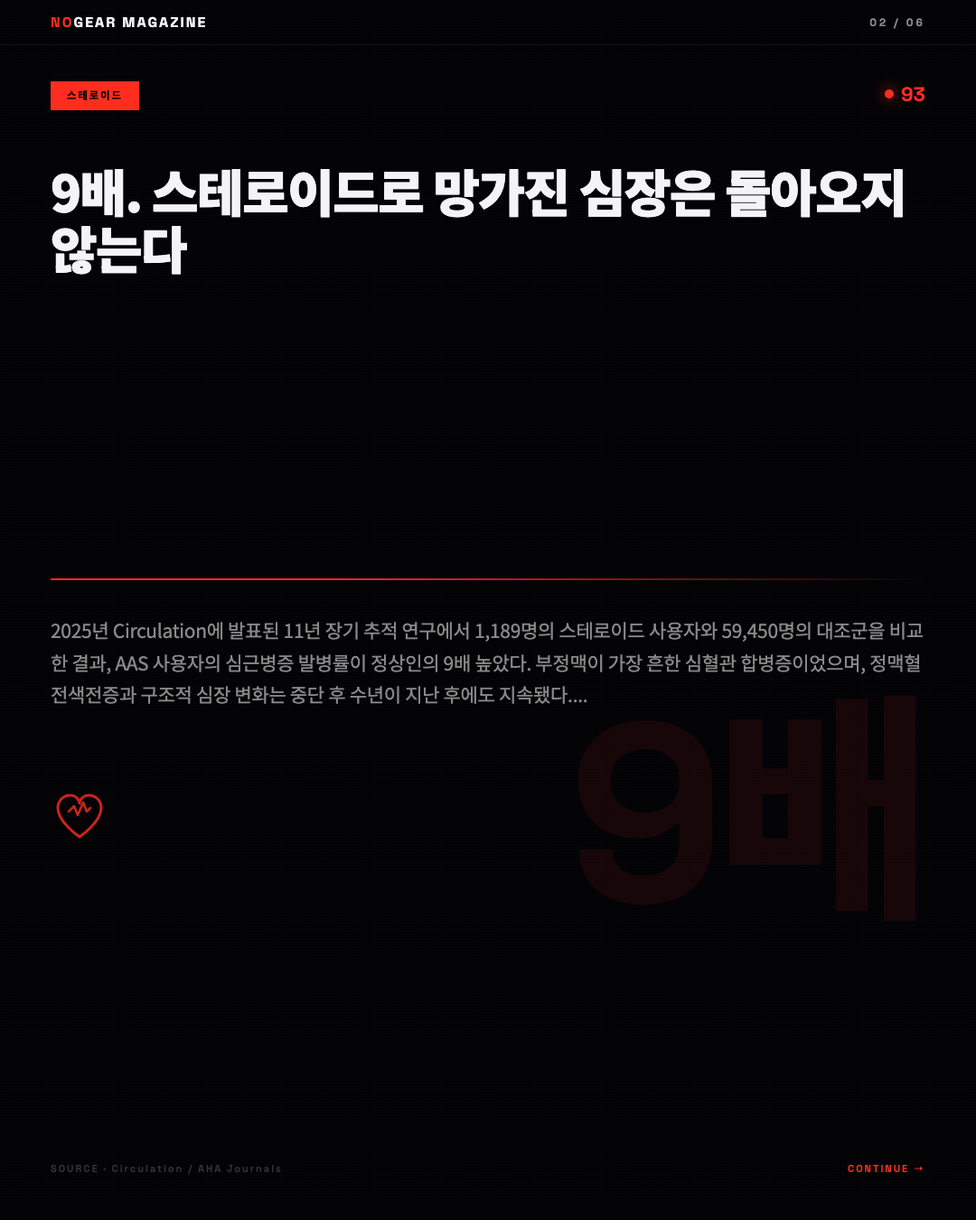
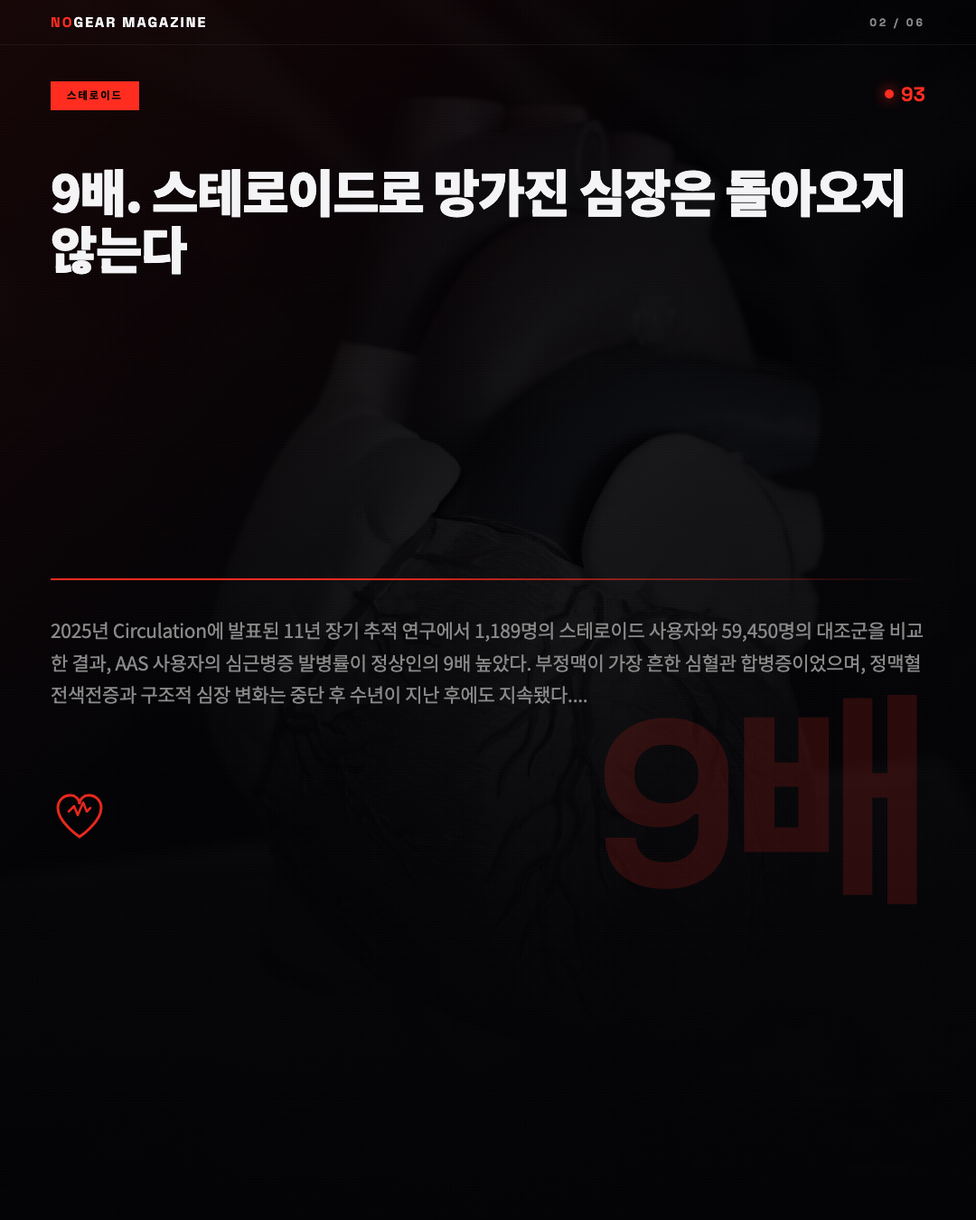
feat: 주제별 배경 사진 (심장/약/짐/불/실험실) + 다크 오버레이 + 그레이스케일 필터 + 비네팅

diff --git a/cardnews/20260418_viral/00_cover.html b/cardnews/20260418_viral/00_cover.html
@@ -4,24 +4,27 @@
 @import url('https://fonts.googleapis.com/css2?family=Noto+Sans+KR:wght@400;700;900&family=Space+Grotesk:wght@700;900&display=swap');
 *{margin:0;padding:0;box-sizing:border-box;}
 body{width:1080px;height:1350px;background:#030306;font-family:'Noto Sans KR',sans-serif;color:#F4F4F6;overflow:hidden;position:relative;}
-.grain{position:absolute;inset:0;background-image:radial-gradient(rgba(255,255,255,.02) 1px,transparent 1px);background-size:3px 3px;pointer-events:none;}
-.noise-lines{position:absolute;top:0;left:0;right:0;height:100%;background:linear-gradient(90deg,transparent 98%,rgba(255,45,32,.04) 100%);background-size:60px 100%;pointer-events:none;}
-.top-strip{position:absolute;top:0;left:0;right:0;height:60px;background:#FF2D20;display:flex;align-items:center;justify-content:space-between;padding:0 56px;}
+.cover-bg{position:absolute;inset:0;background-image:url('../assets/heart.jpg');background-size:cover;background-position:center;filter:grayscale(85%) contrast(1.3) brightness(.4);opacity:.5;z-index:0;}
+.cover-overlay{position:absolute;inset:0;background:linear-gradient(180deg,rgba(3,3,6,.4) 0%,rgba(3,3,6,.75) 50%,rgba(3,3,6,.98) 100%);z-index:1;}
+.cover-vignette{position:absolute;inset:0;background:radial-gradient(circle at 50% 40%, transparent 20%, rgba(3,3,6,.6) 80%);z-index:2;}
+.grain{position:absolute;inset:0;background-image:radial-gradient(rgba(255,255,255,.02) 1px,transparent 1px);background-size:3px 3px;pointer-events:none;z-index:3;}
+.noise-lines{position:absolute;top:0;left:0;right:0;height:100%;background:linear-gradient(90deg,transparent 98%,rgba(255,45,32,.04) 100%);background-size:60px 100%;pointer-events:none;z-index:3;}
+.top-strip{position:absolute;top:0;left:0;right:0;height:60px;background:#FF2D20;display:flex;align-items:center;justify-content:space-between;padding:0 56px;z-index:10;}
 .top-strip .ticker{font-family:'Space Grotesk';font-size:13px;font-weight:900;letter-spacing:4px;color:#000;}
 .top-strip .date{font-family:'Space Grotesk';font-size:13px;font-weight:700;letter-spacing:2px;color:#000;}
-.icon-wrap{position:absolute;top:100px;left:56px;width:80px;height:80px;}
-.icon-label{position:absolute;top:110px;left:156px;font-family:'Space Grotesk';font-size:12px;font-weight:900;letter-spacing:4px;color:#FF2D20;}
-.icon-subtext{position:absolute;top:140px;left:156px;font-size:16px;color:#888;font-weight:400;}
-.hero-num{position:absolute;top:220px;left:0;right:0;text-align:center;font-family:'Space Grotesk';font-weight:900;font-size:280px;line-height:1;letter-spacing:-10px;color:#FF2D20;text-shadow:0 0 80px rgba(255,45,32,.4);}
-.hero-label{position:absolute;top:520px;left:0;right:0;text-align:center;font-family:'Space Grotesk';font-size:14px;font-weight:900;letter-spacing:6px;color:#F4F4F6;}
-.pulse-ring{position:absolute;top:240px;left:50%;width:500px;height:500px;border:2px solid rgba(255,45,32,.1);border-radius:50%;transform:translateX(-50%);pointer-events:none;}
-.pulse-ring-2{position:absolute;top:290px;left:50%;width:400px;height:400px;border:1px solid rgba(255,45,32,.05);border-radius:50%;transform:translateX(-50%);pointer-events:none;}
-.main-hook{position:absolute;top:620px;left:56px;right:56px;font-size:62px;font-weight:900;line-height:1.1;letter-spacing:-2px;color:#F4F4F6;}
+.icon-wrap{position:absolute;top:100px;left:56px;width:80px;height:80px;z-index:10;}
+.icon-label{position:absolute;top:110px;left:156px;font-family:'Space Grotesk';font-size:12px;font-weight:900;letter-spacing:4px;color:#FF2D20;z-index:10;}
+.icon-subtext{position:absolute;top:140px;left:156px;font-size:16px;color:#888;font-weight:400;z-index:10;}
+.hero-num{position:absolute;top:220px;left:0;right:0;text-align:center;font-family:'Space Grotesk';font-weight:900;font-size:280px;line-height:1;letter-spacing:-10px;color:#FF2D20;text-shadow:0 0 100px rgba(255,45,32,.6);z-index:10;}
+.hero-label{position:absolute;top:520px;left:0;right:0;text-align:center;font-family:'Space Grotesk';font-size:14px;font-weight:900;letter-spacing:6px;color:#F4F4F6;z-index:10;}
+.pulse-ring{position:absolute;top:240px;left:50%;width:500px;height:500px;border:2px solid rgba(255,45,32,.12);border-radius:50%;transform:translateX(-50%);pointer-events:none;z-index:5;}
+.pulse-ring-2{position:absolute;top:290px;left:50%;width:400px;height:400px;border:1px solid rgba(255,45,32,.07);border-radius:50%;transform:translateX(-50%);pointer-events:none;z-index:5;}
+.main-hook{position:absolute;top:620px;left:56px;right:56px;font-size:62px;font-weight:900;line-height:1.1;letter-spacing:-2px;color:#F4F4F6;z-index:10;text-shadow:0 2px 20px rgba(0,0,0,.8);}
 .main-hook .accent{color:#FF2D20;}
-.meta-line{position:absolute;bottom:120px;left:56px;right:56px;display:flex;align-items:center;justify-content:space-between;border-top:1px solid rgba(255,255,255,.1);padding-top:16px;}
+.meta-line{position:absolute;bottom:120px;left:56px;right:56px;display:flex;align-items:center;justify-content:space-between;border-top:1px solid rgba(255,255,255,.1);padding-top:16px;z-index:10;}
 .meta-left{font-size:13px;color:#888;letter-spacing:1px;font-weight:700;}
 .meta-right{font-family:'Space Grotesk';font-size:11px;color:#333;letter-spacing:3px;}
-.swipe-cta{position:absolute;bottom:40px;left:56px;right:56px;display:flex;align-items:center;justify-content:space-between;}
+.swipe-cta{position:absolute;bottom:40px;left:56px;right:56px;display:flex;align-items:center;justify-content:space-between;z-index:10;}
 .swipe-cta .logo{font-family:'Space Grotesk';font-size:18px;font-weight:900;letter-spacing:2px;}
 .swipe-cta .logo .n{color:#FF2D20;}
 .swipe-cta .logo .mag{font-size:9px;color:#333;letter-spacing:4px;margin-left:4px;}
@@ -30,6 +33,9 @@ body{width:1080px;height:1350px;background:#030306;font-family:'Noto Sans KR',sa
 .vertical-label{position:absolute;left:20px;top:50%;transform:rotate(-90deg) translateY(-50%);transform-origin:left center;font-family:'Space Grotesk';font-size:10px;font-weight:800;color:#333;letter-spacing:5px;}
 </style></head>
 <body>
+  <div class="cover-bg"></div>
+  <div class="cover-overlay"></div>
+  <div class="cover-vignette"></div>
   <div class="grain"></div>
   <div class="noise-lines"></div>
   <div class="top-strip">

diff --git a/cardnews/20260418_viral/01_problem.html b/cardnews/20260418_viral/01_problem.html
@@ -25,25 +25,46 @@ body{width:1080px;height:1350px;background:#030306;font-family:'Noto Sans KR',sa
 .corner-mark{position:absolute;bottom:50px;left:56px;width:24px;height:24px;border-left:2px solid #FF2D20;border-bottom:2px solid #FF2D20;}
 </style></head>
 <body>
-  <div class="grain"></div>
-  <div style="position:absolute;top:760px;right:56px;font-family:'Space Grotesk';font-size:280px;font-weight:900;color:#FF2D20;opacity:.08;line-height:1;letter-spacing:-10px;pointer-events:none;">9배</div>
-  <div style="position:absolute;top:870px;left:56px;width:64px;height:64px;opacity:.8;"><svg viewBox="0 0 64 64" style="width:100%;height:100%;">
+  
+    <div class="bg-photo" style="position:absolute;top:0;left:0;right:0;bottom:0;
+      background-image:url('../assets/heart.jpg');
+      background-size:cover;
+      background-position:center;
+      filter:grayscale(90%) contrast(1.2) brightness(.5);
+      opacity:.55;
+      z-index:0;"></div>
+    <div class="bg-overlay" style="position:absolute;top:0;left:0;right:0;bottom:0;
+      background:linear-gradient(180deg,
+        rgba(3,3,6,.3) 0%,
+        rgba(3,3,6,.65) 40%,
+        rgba(3,3,6,.92) 75%,
+        rgba(3,3,6,.98) 100%);
+      z-index:1;"></div>
+    <div class="bg-vignette" style="position:absolute;top:0;left:0;right:0;bottom:0;
+      background:radial-gradient(circle at 50% 50%, transparent 0%, rgba(3,3,6,.6) 100%);
+      z-index:2;"></div>
+    <div class="bg-red-tint" style="position:absolute;top:0;left:0;right:0;bottom:0;
+      background:linear-gradient(135deg, rgba(255,45,32,.08) 0%, transparent 40%);
+      z-index:3;"></div>
+  <div class="grain" style="z-index:4;"></div>
+  <div style="position:absolute;top:760px;right:56px;font-family:'Space Grotesk';font-size:260px;font-weight:900;color:#FF2D20;opacity:.15;line-height:1;letter-spacing:-10px;pointer-events:none;z-index:5;">9배</div>
+  <div style="position:absolute;top:870px;left:56px;width:64px;height:64px;opacity:.9;z-index:5;"><svg viewBox="0 0 64 64" style="width:100%;height:100%;">
 <path d="M32 56 C32 56 8 40 8 24 C8 16 14 10 22 10 C27 10 32 14 32 20 C32 14 37 10 42 10 C50 10 56 16 56 24 C56 40 32 56 32 56 Z" fill="none" stroke="#FF2D20" stroke-width="3"/>
 <path d="M20 28 L26 22 L30 32 L36 18 L40 28 L44 24" fill="none" stroke="#FF2D20" stroke-width="2.5" stroke-linecap="round" stroke-linejoin="round"/>
 </svg></div>
-  <div class="top-bar">
+  <div class="top-bar" style="z-index:10;">
     <div class="logo"><span class="n">NO</span>GEAR MAGAZINE</div>
     <div class="page">02 / 06</div>
   </div>
-  <div class="cat-chip">스테로이드</div>
-  <div class="score-corner"><div class="dot"></div><div class="num">93</div></div>
+  <div class="cat-chip" style="z-index:10;">스테로이드</div>
+  <div class="score-corner" style="z-index:10;"><div class="dot"></div><div class="num">93</div></div>
 
-  <div class="title-block">
+  <div class="title-block" style="z-index:10;">
     <div class="main">9배. 스테로이드로 망가진 심장은 돌아오지 않는다</div>
   </div>
 
-  <div class="divider"></div>
-  <div class="summary">2025년 Circulation에 발표된 11년 장기 추적 연구에서 1,189명의 스테로이드 사용자와 59,450명의 대조군을 비교한 결과, AAS 사용자의 심근병증 발병률이 정상인의 9배 높았다. 부정맥이 가장 흔한 심혈관 합병증이었으며, 정맥혈전색전증과 구조적 심장 변화는 중단 후 수년이 지난 후에도 지속됐다....</div>
+  <div class="divider" style="z-index:10;"></div>
+  <div class="summary" style="z-index:10;">2025년 Circulation에 발표된 11년 장기 추적 연구에서 1,189명의 스테로이드 사용자와 59,450명의 대조군을 비교한 결과, AAS 사용자의 심근병증 발병률이 정상인의 9배 높았다. 부정맥이 가장 흔한 심혈관 합병증이었으며, 정맥혈전색전증과 구조적 심장 변화는 중단 후 수년이 지난 후에도 지속됐다....</div>
 
   <div class="footer">
     <div class="src">SOURCE · Circulation / AHA Journals</div>

diff --git a/cardnews/20260418_viral/02_problem.html b/cardnews/20260418_viral/02_problem.html
@@ -25,25 +25,46 @@ body{width:1080px;height:1350px;background:#030306;font-family:'Noto Sans KR',sa
 .corner-mark{position:absolute;bottom:50px;left:56px;width:24px;height:24px;border-left:2px solid #FF2D20;border-bottom:2px solid #FF2D20;}
 </style></head>
 <body>
-  <div class="grain"></div>
-  <div style="position:absolute;top:760px;right:56px;font-family:'Space Grotesk';font-size:280px;font-weight:900;color:#FF2D20;opacity:.08;line-height:1;letter-spacing:-10px;pointer-events:none;">38%</div>
-  <div style="position:absolute;top:870px;left:56px;width:64px;height:64px;opacity:.8;"><svg viewBox="0 0 64 64" style="width:100%;height:100%;">
+  
+    <div class="bg-photo" style="position:absolute;top:0;left:0;right:0;bottom:0;
+      background-image:url('../assets/heart.jpg');
+      background-size:cover;
+      background-position:center;
+      filter:grayscale(90%) contrast(1.2) brightness(.5);
+      opacity:.55;
+      z-index:0;"></div>
+    <div class="bg-overlay" style="position:absolute;top:0;left:0;right:0;bottom:0;
+      background:linear-gradient(180deg,
+        rgba(3,3,6,.3) 0%,
+        rgba(3,3,6,.65) 40%,
+        rgba(3,3,6,.92) 75%,
+        rgba(3,3,6,.98) 100%);
+      z-index:1;"></div>
+    <div class="bg-vignette" style="position:absolute;top:0;left:0;right:0;bottom:0;
+      background:radial-gradient(circle at 50% 50%, transparent 0%, rgba(3,3,6,.6) 100%);
+      z-index:2;"></div>
+    <div class="bg-red-tint" style="position:absolute;top:0;left:0;right:0;bottom:0;
+      background:linear-gradient(135deg, rgba(255,45,32,.08) 0%, transparent 40%);
+      z-index:3;"></div>
+  <div class="grain" style="z-index:4;"></div>
+  <div style="position:absolute;top:760px;right:56px;font-family:'Space Grotesk';font-size:260px;font-weight:900;color:#FF2D20;opacity:.15;line-height:1;letter-spacing:-10px;pointer-events:none;z-index:5;">38%</div>
+  <div style="position:absolute;top:870px;left:56px;width:64px;height:64px;opacity:.9;z-index:5;"><svg viewBox="0 0 64 64" style="width:100%;height:100%;">
 <path d="M32 56 C32 56 8 40 8 24 C8 16 14 10 22 10 C27 10 32 14 32 20 C32 14 37 10 42 10 C50 10 56 16 56 24 C56 40 32 56 32 56 Z" fill="none" stroke="#FF2D20" stroke-width="3"/>
 <path d="M20 28 L26 22 L30 32 L36 18 L40 28 L44 24" fill="none" stroke="#FF2D20" stroke-width="2.5" stroke-linecap="round" stroke-linejoin="round"/>
 </svg></div>
-  <div class="top-bar">
+  <div class="top-bar" style="z-index:10;">
     <div class="logo"><span class="n">NO</span>GEAR MAGAZINE</div>
     <div class="page">03 / 06</div>
   </div>
-  <div class="cat-chip">스테로이드</div>
-  <div class="score-corner"><div class="dot"></div><div class="num">92</div></div>
+  <div class="cat-chip" style="z-index:10;">스테로이드</div>
+  <div class="score-corner" style="z-index:10;"><div class="dot"></div><div class="num">92</div></div>
 
-  <div class="title-block">
+  <div class="title-block" style="z-index:10;">
     <div class="main">프로 보디빌더, 급성심장사 위험 아마추어보다 5배 높다 — EHJ 2025</div>
   </div>
 
-  <div class="divider"></div>
-  <div class="summary">유럽 심장학회지(European Heart Journal)에 발표된 2025년 대규모 연구에서 남성 보디빌더 121명의 사망을 분석한 결과, 사망의 38%가 급성심장사(SCD)였으며 사망 평균 연령은 45세였다. 프로 선수는 아마추어 대비 급성심장사 위험이 5배 이상 높았고, 대회 출전 중 사망한 11명의 평균 연령은 불...</div>
+  <div class="divider" style="z-index:10;"></div>
+  <div class="summary" style="z-index:10;">유럽 심장학회지(European Heart Journal)에 발표된 2025년 대규모 연구에서 남성 보디빌더 121명의 사망을 분석한 결과, 사망의 38%가 급성심장사(SCD)였으며 사망 평균 연령은 45세였다. 프로 선수는 아마추어 대비 급성심장사 위험이 5배 이상 높았고, 대회 출전 중 사망한 11명의 평균 연령은 불...</div>
 
   <div class="footer">
     <div class="src">SOURCE · European Heart Journal / ESC</div>

diff --git a/cardnews/20260418_viral/03_problem.html b/cardnews/20260418_viral/03_problem.html
@@ -25,25 +25,46 @@ body{width:1080px;height:1350px;background:#030306;font-family:'Noto Sans KR',sa
 .corner-mark{position:absolute;bottom:50px;left:56px;width:24px;height:24px;border-left:2px solid #FF2D20;border-bottom:2px solid #FF2D20;}
 </style></head>
 <body>
-  <div class="grain"></div>
   
-  <div style="position:absolute;top:870px;left:56px;width:64px;height:64px;opacity:.8;"><svg viewBox="0 0 64 64" style="width:100%;height:100%;">
+    <div class="bg-photo" style="position:absolute;top:0;left:0;right:0;bottom:0;
+      background-image:url('../assets/heart.jpg');
+      background-size:cover;
+      background-position:center;
+      filter:grayscale(90%) contrast(1.2) brightness(.5);
+      opacity:.55;
+      z-index:0;"></div>
+    <div class="bg-overlay" style="position:absolute;top:0;left:0;right:0;bottom:0;
+      background:linear-gradient(180deg,
+        rgba(3,3,6,.3) 0%,
+        rgba(3,3,6,.65) 40%,
+        rgba(3,3,6,.92) 75%,
+        rgba(3,3,6,.98) 100%);
+      z-index:1;"></div>
+    <div class="bg-vignette" style="position:absolute;top:0;left:0;right:0;bottom:0;
+      background:radial-gradient(circle at 50% 50%, transparent 0%, rgba(3,3,6,.6) 100%);
+      z-index:2;"></div>
+    <div class="bg-red-tint" style="position:absolute;top:0;left:0;right:0;bottom:0;
+      background:linear-gradient(135deg, rgba(255,45,32,.08) 0%, transparent 40%);
+      z-index:3;"></div>
+  <div class="grain" style="z-index:4;"></div>
+  
+  <div style="position:absolute;top:870px;left:56px;width:64px;height:64px;opacity:.9;z-index:5;"><svg viewBox="0 0 64 64" style="width:100%;height:100%;">
 <path d="M32 56 C32 56 8 40 8 24 C8 16 14 10 22 10 C27 10 32 14 32 20 C32 14 37 10 42 10 C50 10 56 16 56 24 C56 40 32 56 32 56 Z" fill="none" stroke="#FF2D20" stroke-width="3"/>
 <path d="M20 28 L26 22 L30 32 L36 18 L40 28 L44 24" fill="none" stroke="#FF2D20" stroke-width="2.5" stroke-linecap="round" stroke-linejoin="round"/>
 </svg></div>
-  <div class="top-bar">
+  <div class="top-bar" style="z-index:10;">
     <div class="logo"><span class="n">NO</span>GEAR MAGAZINE</div>
     <div class="page">04 / 06</div>
   </div>
-  <div class="cat-chip">스테로이드</div>
-  <div class="score-corner"><div class="dot"></div><div class="num">91</div></div>
+  <div class="cat-chip" style="z-index:10;">스테로이드</div>
+  <div class="score-corner" style="z-index:10;"><div class="dot"></div><div class="num">91</div></div>
 
-  <div class="title-block">
+  <div class="title-block" style="z-index:10;">
     <div class="main">19살 브라질 보디빌더, 스테로이드 심장마비로 사망</div>
   </div>
 
-  <div class="divider"></div>
-  <div class="summary">19살의 브라질 유명 보디빌더가 스테로이드 관련 심장마비로 사망했다. 젊은 나이에도 스테로이드 남용이 심근병증과 급성 심근경색을 유발한다는 사실이 다시 한 번 입증됐다. 이 사례는 소셜 미디어에서 빠르게 확산되며 피트니스 업계의 약물 문화에 대한 경각심을 높이고 있다. 의사들은 AAS(동화스테로이드) 사용이 10대에서도 ...</div>
+  <div class="divider" style="z-index:10;"></div>
+  <div class="summary" style="z-index:10;">19살의 브라질 유명 보디빌더가 스테로이드 관련 심장마비로 사망했다. 젊은 나이에도 스테로이드 남용이 심근병증과 급성 심근경색을 유발한다는 사실이 다시 한 번 입증됐다. 이 사례는 소셜 미디어에서 빠르게 확산되며 피트니스 업계의 약물 문화에 대한 경각심을 높이고 있다. 의사들은 AAS(동화스테로이드) 사용이 10대에서도 ...</div>
 
   <div class="footer">
     <div class="src">SOURCE · WION News / World News</div>

diff --git a/scripts/generate_viral_cardnews.py b/scripts/generate_viral_cardnews.py
@@ -149,6 +149,30 @@ def pick_icon(article: dict) -> str:
     return WARNING_ICON
 
 
+def pick_bg_image(article: dict) -> str:
+    """기사 주제에 맞는 배경 이미지 경로 (PNG 생성 시 file:// 경로로 접근)"""
+    title = (article.get('title', '') + article.get('summary', '')).lower()
+    # Playwright가 file:// URL에서 상대경로를 읽도록, PNG 생성 폴더 기준으로 조정
+    base = "../assets/"
+    if any(k in title for k in ['심장', '심근', '심혈관', '부정맥']):
+        return base + "heart.jpg"
+    if 'dnp' in title or '연소' in title or '열' in title:
+        return base + "fire.jpg"
+    if any(k in title for k in ['사망', '죽', '치명', '해골']):
+        return base + "skull.jpg"
+    if any(k in title for k in ['주사', '인슐린', '호르몬', 'hgh', 'gh']):
+        return base + "syringe.jpg"
+    if any(k in title for k in ['보디빌더', '근육', '피지크', '보디빌딩', '인플루언서']):
+        return base + "body.jpg"
+    if any(k in title for k in ['연구', '논문', '실험', '분석', '메타']):
+        return base + "lab.jpg"
+    if any(k in title for k in ['약', 'sarm', '펩타이드', '보충제']):
+        return base + "pills.jpg"
+    if any(k in title for k in ['헬스', '운동', '피트니스', '훈련']):
+        return base + "gym.jpg"
+    return base + "medical.jpg"
+
+
 # ── CARD 1: COVER — VIRAL HOOK ──
 def cover_card(top_articles: list, date_str: str) -> str:
     """커버: 거대 숫자 + 충격 헤드라인 + 심장/경고 아이콘"""
@@ -159,6 +183,7 @@ def cover_card(top_articles: list, date_str: str) -> str:
     icon = pick_icon(top)
 
     hero_display = hero['full'] if hero else f"VIRAL {score}"
+    bg_image = pick_bg_image(top)
 
     day_ko = ["월","화","수","목","금","토","일"][datetime.now(KST).weekday()]
 
@@ -168,24 +193,27 @@ def cover_card(top_articles: list, date_str: str) -> str:
 @import url('https://fonts.googleapis.com/css2?family=Noto+Sans+KR:wght@400;700;900&family=Space+Grotesk:wght@700;900&display=swap');
 *{{margin:0;padding:0;box-sizing:border-box;}}
 body{{width:1080px;height:1350px;background:{DESIGN['bg']};font-family:'Noto Sans KR',sans-serif;color:{DESIGN['white']};overflow:hidden;position:relative;}}
-.grain{{position:absolute;inset:0;background-image:radial-gradient(rgba(255,255,255,.02) 1px,transparent 1px);background-size:3px 3px;pointer-events:none;}}
-.noise-lines{{position:absolute;top:0;left:0;right:0;height:100%;background:linear-gradient(90deg,transparent 98%,rgba(255,45,32,.04) 100%);background-size:60px 100%;pointer-events:none;}}
-.top-strip{{position:absolute;top:0;left:0;right:0;height:60px;background:{DESIGN['red']};display:flex;align-items:center;justify-content:space-between;padding:0 56px;}}
+.cover-bg{{position:absolute;inset:0;background-image:url('{bg_image}');background-size:cover;background-position:center;filter:grayscale(85%) contrast(1.3) brightness(.4);opacity:.5;z-index:0;}}
+.cover-overlay{{position:absolute;inset:0;background:linear-gradient(180deg,rgba(3,3,6,.4) 0%,rgba(3,3,6,.75) 50%,rgba(3,3,6,.98) 100%);z-index:1;}}
+.cover-vignette{{position:absolute;inset:0;background:radial-gradient(circle at 50% 40%, transparent 20%, rgba(3,3,6,.6) 80%);z-index:2;}}
+.grain{{position:absolute;inset:0;background-image:radial-gradient(rgba(255,255,255,.02) 1px,transparent 1px);background-size:3px 3px;pointer-events:none;z-index:3;}}
+.noise-lines{{position:absolute;top:0;left:0;right:0;height:100%;background:linear-gradient(90deg,transparent 98%,rgba(255,45,32,.04) 100%);background-size:60px 100%;pointer-events:none;z-index:3;}}
+.top-strip{{position:absolute;top:0;left:0;right:0;height:60px;background:{DESIGN['red']};display:flex;align-items:center;justify-content:space-between;padding:0 56px;z-index:10;}}
 .top-strip .ticker{{font-family:'Space Grotesk';font-size:13px;font-weight:900;letter-spacing:4px;color:#000;}}
 .top-strip .date{{font-family:'Space Grotesk';font-size:13px;font-weight:700;letter-spacing:2px;color:#000;}}
-.icon-wrap{{position:absolute;top:100px;left:56px;width:80px;height:80px;}}
-.icon-label{{position:absolute;top:110px;left:156px;font-family:'Space Grotesk';font-size:12px;font-weight:900;letter-spacing:4px;color:{DESIGN['red']};}}
-.icon-subtext{{position:absolute;top:140px;left:156px;font-size:16px;color:{DESIGN['grey']};font-weight:400;}}
-.hero-num{{position:absolute;top:220px;left:0;right:0;text-align:center;font-family:'Space Grotesk';font-weight:900;font-size:280px;line-height:1;letter-spacing:-10px;color:{DESIGN['red']};text-shadow:0 0 80px rgba(255,45,32,.4);}}
-.hero-label{{position:absolute;top:520px;left:0;right:0;text-align:center;font-family:'Space Grotesk';font-size:14px;font-weight:900;letter-spacing:6px;color:{DESIGN['white']};}}
-.pulse-ring{{position:absolute;top:240px;left:50%;width:500px;height:500px;border:2px solid rgba(255,45,32,.1);border-radius:50%;transform:translateX(-50%);pointer-events:none;}}
-.pulse-ring-2{{position:absolute;top:290px;left:50%;width:400px;height:400px;border:1px solid rgba(255,45,32,.05);border-radius:50%;transform:translateX(-50%);pointer-events:none;}}
-.main-hook{{position:absolute;top:620px;left:56px;right:56px;font-size:62px;font-weight:900;line-height:1.1;letter-spacing:-2px;color:{DESIGN['white']};}}
+.icon-wrap{{position:absolute;top:100px;left:56px;width:80px;height:80px;z-index:10;}}
+.icon-label{{position:absolute;top:110px;left:156px;font-family:'Space Grotesk';font-size:12px;font-weight:900;letter-spacing:4px;color:{DESIGN['red']};z-index:10;}}
+.icon-subtext{{position:absolute;top:140px;left:156px;font-size:16px;color:{DESIGN['grey']};font-weight:400;z-index:10;}}
+.hero-num{{position:absolute;top:220px;left:0;right:0;text-align:center;font-family:'Space Grotesk';font-weight:900;font-size:280px;line-height:1;letter-spacing:-10px;color:{DESIGN['red']};text-shadow:0 0 100px rgba(255,45,32,.6);z-index:10;}}
+.hero-label{{position:absolute;top:520px;left:0;right:0;text-align:center;font-family:'Space Grotesk';font-size:14px;font-weight:900;letter-spacing:6px;color:{DESIGN['white']};z-index:10;}}
+.pulse-ring{{position:absolute;top:240px;left:50%;width:500px;height:500px;border:2px solid rgba(255,45,32,.12);border-radius:50%;transform:translateX(-50%);pointer-events:none;z-index:5;}}
+.pulse-ring-2{{position:absolute;top:290px;left:50%;width:400px;height:400px;border:1px solid rgba(255,45,32,.07);border-radius:50%;transform:translateX(-50%);pointer-events:none;z-index:5;}}
+.main-hook{{position:absolute;top:620px;left:56px;right:56px;font-size:62px;font-weight:900;line-height:1.1;letter-spacing:-2px;color:{DESIGN['white']};z-index:10;text-shadow:0 2px 20px rgba(0,0,0,.8);}}
 .main-hook .accent{{color:{DESIGN['red']};}}
-.meta-line{{position:absolute;bottom:120px;left:56px;right:56px;display:flex;align-items:center;justify-content:space-between;border-top:1px solid rgba(255,255,255,.1);padding-top:16px;}}
+.meta-line{{position:absolute;bottom:120px;left:56px;right:56px;display:flex;align-items:center;justify-content:space-between;border-top:1px solid rgba(255,255,255,.1);padding-top:16px;z-index:10;}}
 .meta-left{{font-size:13px;color:{DESIGN['grey']};letter-spacing:1px;font-weight:700;}}
 .meta-right{{font-family:'Space Grotesk';font-size:11px;color:{DESIGN['dark_grey']};letter-spacing:3px;}}
-.swipe-cta{{position:absolute;bottom:40px;left:56px;right:56px;display:flex;align-items:center;justify-content:space-between;}}
+.swipe-cta{{position:absolute;bottom:40px;left:56px;right:56px;display:flex;align-items:center;justify-content:space-between;z-index:10;}}
 .swipe-cta .logo{{font-family:'Space Grotesk';font-size:18px;font-weight:900;letter-spacing:2px;}}
 .swipe-cta .logo .n{{color:{DESIGN['red']};}}
 .swipe-cta .logo .mag{{font-size:9px;color:{DESIGN['dark_grey']};letter-spacing:4px;margin-left:4px;}}
@@ -194,6 +222,9 @@ body{{width:1080px;height:1350px;background:{DESIGN['bg']};font-family:'Noto San
 .vertical-label{{position:absolute;left:20px;top:50%;transform:rotate(-90deg) translateY(-50%);transform-origin:left center;font-family:'Space Grotesk';font-size:10px;font-weight:800;color:{DESIGN['dark_grey']};letter-spacing:5px;}}
 </style></head>
 <body>
+  <div class="cover-bg"></div>
+  <div class="cover-overlay"></div>
+  <div class="cover-vignette"></div>
   <div class="grain"></div>
   <div class="noise-lines"></div>
   <div class="top-strip">
@@ -234,12 +265,36 @@ def problem_card(article: dict, idx: int, total: int) -> str:
     source = article.get('source', '')
     hero = extract_hero_number(title + ' ' + summary)
     icon = pick_icon(article)
+    bg_image = pick_bg_image(article)
 
     hero_html = ""
     if hero and hero['priority'] <= 3:
-        hero_html = f'<div style="position:absolute;top:760px;right:56px;font-family:\'Space Grotesk\';font-size:280px;font-weight:900;color:{DESIGN["red"]};opacity:.08;line-height:1;letter-spacing:-10px;pointer-events:none;">{hero["full"]}</div>'
+        hero_html = f'<div style="position:absolute;top:760px;right:56px;font-family:\'Space Grotesk\';font-size:260px;font-weight:900;color:{DESIGN["red"]};opacity:.15;line-height:1;letter-spacing:-10px;pointer-events:none;z-index:5;">{hero["full"]}</div>'
 
-    icon_html = f'<div style="position:absolute;top:870px;left:56px;width:64px;height:64px;opacity:.8;">{icon}</div>'
+    icon_html = f'<div style="position:absolute;top:870px;left:56px;width:64px;height:64px;opacity:.9;z-index:5;">{icon}</div>'
+
+    # 배경 이미지 레이어 (다크 오버레이 + 그레이스케일 + 레드 틴트)
+    bg_image_html = f"""
+    <div class="bg-photo" style="position:absolute;top:0;left:0;right:0;bottom:0;
+      background-image:url('{bg_image}');
+      background-size:cover;
+      background-position:center;
+      filter:grayscale(90%) contrast(1.2) brightness(.5);
+      opacity:.55;
+      z-index:0;"></div>
+    <div class="bg-overlay" style="position:absolute;top:0;left:0;right:0;bottom:0;
+      background:linear-gradient(180deg,
+        rgba(3,3,6,.3) 0%,
+        rgba(3,3,6,.65) 40%,
+        rgba(3,3,6,.92) 75%,
+        rgba(3,3,6,.98) 100%);
+      z-index:1;"></div>
+    <div class="bg-vignette" style="position:absolute;top:0;left:0;right:0;bottom:0;
+      background:radial-gradient(circle at 50% 50%, transparent 0%, rgba(3,3,6,.6) 100%);
+      z-index:2;"></div>
+    <div class="bg-red-tint" style="position:absolute;top:0;left:0;right:0;bottom:0;
+      background:linear-gradient(135deg, rgba(255,45,32,.08) 0%, transparent 40%);
+      z-index:3;"></div>"""
 
     return f"""<!DOCTYPE html>
 <html><head><meta charset="utf-8">
@@ -268,22 +323,23 @@ body{{width:1080px;height:1350px;background:{DESIGN['bg']};font-family:'Noto San
 .corner-mark{{position:absolute;bottom:50px;left:56px;width:24px;height:24px;border-left:2px solid {DESIGN['red']};border-bottom:2px solid {DESIGN['red']};}}
 </style></head>
 <body>
-  <div class="grain"></div>
+  {bg_image_html}
+  <div class="grain" style="z-index:4;"></div>
   {hero_html}
   {icon_html}
-  <div class="top-bar">
+  <div class="top-bar" style="z-index:10;">
     <div class="logo"><span class="n">NO</span>GEAR MAGAZINE</div>
     <div class="page">{idx:02d} / {total:02d}</div>
   </div>
-  <div class="cat-chip">{category_ko}</div>
-  <div class="score-corner"><div class="dot"></div><div class="num">{score}</div></div>
+  <div class="cat-chip" style="z-index:10;">{category_ko}</div>
+  <div class="score-corner" style="z-index:10;"><div class="dot"></div><div class="num">{score}</div></div>
 
-  <div class="title-block">
+  <div class="title-block" style="z-index:10;">
     <div class="main">{title}</div>
   </div>
 
-  <div class="divider"></div>
-  <div class="summary">{summary}...</div>
+  <div class="divider" style="z-index:10;"></div>
+  <div class="summary" style="z-index:10;">{summary}...</div>
 
   <div class="footer">
     <div class="src">SOURCE · {source[:30]}</div>
